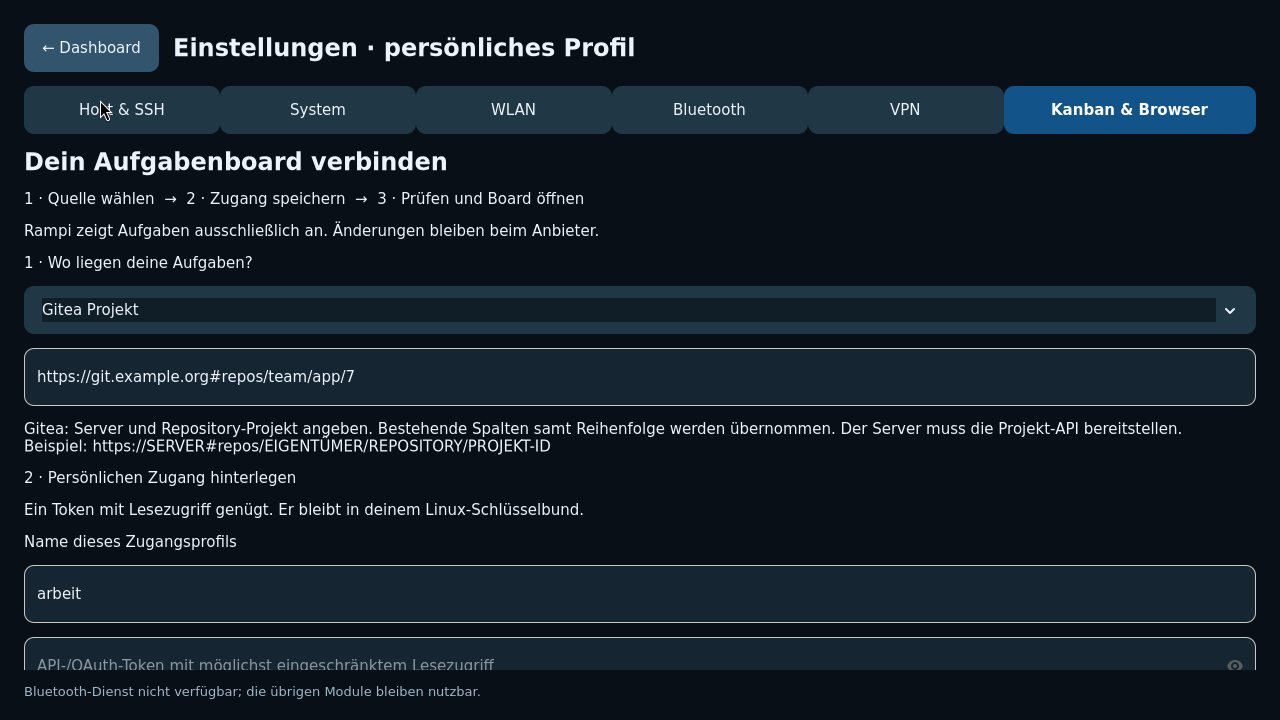
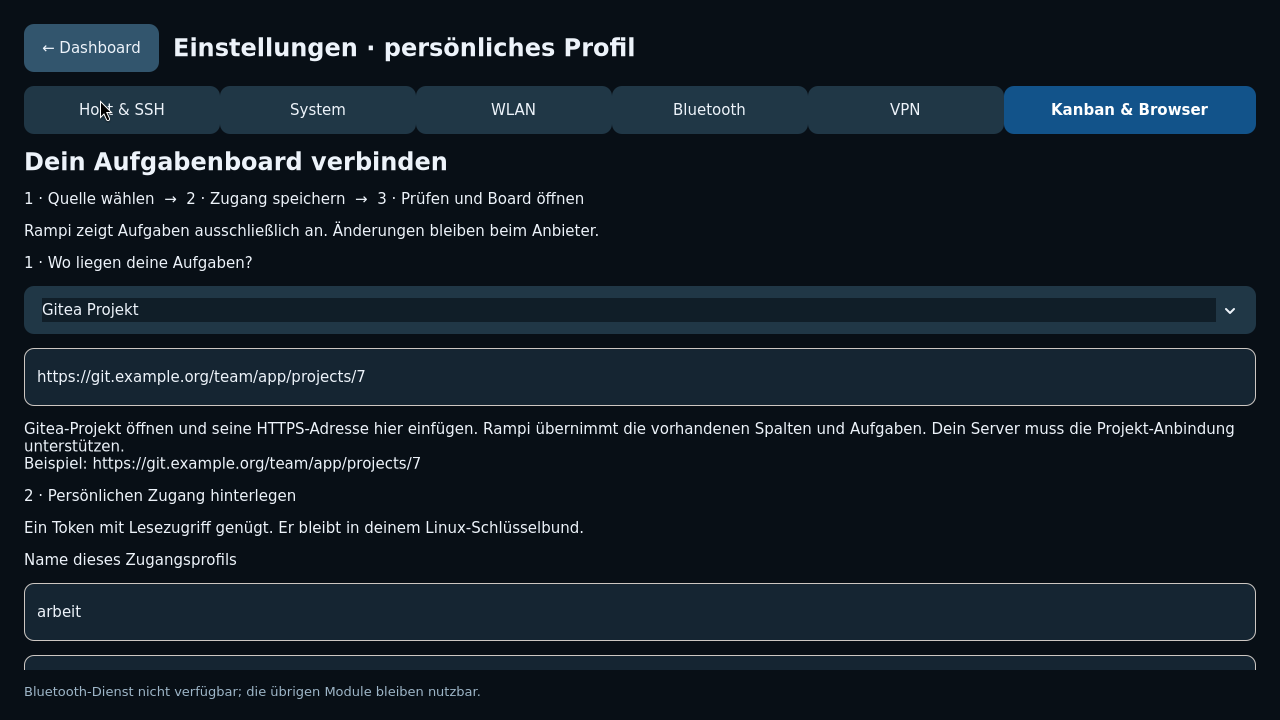
feat(kanban): accept copied Gitea project URLs

Changed region(s): [[0.0, 0.5806, 1.0, 0.9472], [0.1562, 0.5194, 0.2812, 0.55]]

diff --git a/native/core/src/gitea.rs b/native/core/src/gitea.rs
@@ -21,9 +21,23 @@ fn segment(s: &str) -> bool {
 }
 impl Project {
     pub fn new(source: &str) -> Result<Self> {
-        let (site, path) = source
-            .split_once('#')
-            .context("Gitea: https://SERVER#repos/EIGENTÜMER/REPOSITORY/PROJEKT-ID")?;
+        let expanded;
+        let (site, path) = if let Some(parts) = source.split_once('#') {
+            parts
+        } else {
+            let (repository, id) = source
+                .trim_end_matches('/')
+                .rsplit_once("/projects/")
+                .context("Die HTTPS-Adresse des Gitea-Repository-Projekts einfügen")?;
+            let (owner_path, repo) = repository
+                .rsplit_once('/')
+                .context("Gitea-Repository fehlt")?;
+            let (site, owner) = owner_path
+                .rsplit_once('/')
+                .context("Gitea-Eigentümer fehlt")?;
+            expanded = format!("repos/{owner}/{repo}/{id}");
+            (site, expanded.as_str())
+        };
         crate::config::validate_https(site)?;
         let site = site.trim_end_matches('/');
         let mut parts = site[8..].split('/');

diff --git a/native/core/src/connector_tests.rs b/native/core/src/connector_tests.rs
@@ -113,6 +113,23 @@ fn gitea_preserves_project_columns_and_server_page_limits() {
     ] {
         assert!(Connector::new("gitea", source, "fixture".into()).is_err());
     }
+    let copied = Connector::new(
+        "gitea",
+        "https://gitea.test:8443/git/owner/repo/projects/7/",
+        "fixture".into(),
+    )
+    .unwrap();
+    assert_eq!(
+        copied.request().unwrap().url,
+        "https://gitea.test:8443/git/api/v1/repos/owner/repo/projects/7"
+    );
+    for source in [
+        "https://gitea.test/owner/repo/projects/7?other=1",
+        "https://user@gitea.test/owner/repo/projects/7",
+        "https://gitea.test/../owner/repo/projects/7",
+    ] {
+        assert!(Connector::new("gitea", source, "fixture".into()).is_err());
+    }
     let mut c = Connector::new(
         "gitea",
         "https://gitea.test:8443/git#repos/owner/repo/7",

diff --git a/native/ui/src/board_settings.rs b/native/ui/src/board_settings.rs
@@ -152,8 +152,8 @@ pub fn build(stack: &gtk::Stack, conf: &Shared, _status: &gtk::Label, f: &Feedba
                     "Data-Source-ID",
                 ),
                 6 => (
-                    "Gitea: Server und Repository-Projekt angeben. Bestehende Spalten samt Reihenfolge werden übernommen. Der Server muss die Projekt-API bereitstellen.",
-                    "https://SERVER#repos/EIGENTÜMER/REPOSITORY/PROJEKT-ID",
+                    "Gitea-Projekt öffnen und seine HTTPS-Adresse hier einfügen. Rampi übernimmt die vorhandenen Spalten und Aufgaben. Dein Server muss die Projekt-Anbindung unterstützen.",
+                    "https://git.example.org/team/app/projects/7",
                 ),
                 _ => (
                     "Lokale JSON-Datei: Pfad angeben. Dafür werden keine Zugangsdaten benötigt.",

diff --git a/native/ui/src/kanban_checks.rs b/native/ui/src/kanban_checks.rs
@@ -363,7 +363,7 @@ pub fn ui(
             for (id, value) in [
                 (
                     "board-source",
-                    "https://gitea.fixture.test#repos/fixture/repo/1",
+                    "https://gitea.fixture.test/fixture/repo/projects/1",
                 ),
                 ("board-token-profile", "native-ui-gitea"),
             ] {

diff --git a/docs/KANBAN-NATIVE.de.md b/docs/KANBAN-NATIVE.de.md
@@ -19,7 +19,7 @@ Schritte und bleibt dabei im Rampi-Fenster. Aufgaben werden ausschließlich gele
 |---|---|---|
 | Lokale Datei | `~/aufgaben.json` | Kein Token; normalisiertes Board-JSON |
 | GitHub Projects | `organization/NAME/NUMMER` oder `user/NAME/NUMMER` | Token mit Zugriff auf das Projekt und dessen Inhalte; Status/Priorität aus Projektfeldern |
-| Gitea | `https://SERVER#repos/EIGENTÜMER/REPOSITORY/PROJEKT-ID` | Token mit Lesezugriff auf das Repository-Projekt; vorhandene Projektspalten und deren Reihenfolge, einschließlich leerer Spalten |
+| Gitea | `https://SERVER/EIGENTÜMER/REPOSITORY/projects/ID` | Token mit Lesezugriff auf das Repository-Projekt; vorhandene Projektspalten und deren Reihenfolge, einschließlich leerer Spalten |
 | Trello | Board-ID | API-Key und Token; offene Listen und Karten |
 | Jira Cloud | `https://SITE.atlassian.net#PROJEKT` | E-Mail und API-Token mit Issue-Lesezugriff |
 | Jira OAuth | `https://api.atlassian.com/ex/jira/CLOUD-UUID#PROJEKT` | OAuth-Token mit Issue-Lesezugriff; E-Mail leer lassen |
@@ -27,7 +27,10 @@ Schritte und bleibt dabei im Rampi-Fenster. Aufgaben werden ausschließlich gele
 | Notion | Data-Source-ID | Data Source für die Integration freigeben; Titel- und Status-Eigenschaft |
 
 Gitea unterstützt HTTPS-Server mit optionalem Port und Installationspräfix,
-beispielsweise `https://git.example.org:8443/gitea#repos/team/app/7`.
+beispielsweise `https://git.example.org:8443/gitea/team/app/projects/7`.
+Du kannst die Adresse des geöffneten Repository-Projekts direkt kopieren.
+Das bisherige Format `https://SERVER#repos/EIGENTÜMER/REPOSITORY/ID` bleibt
+kompatibel; beim Wechsel des Quellenformats den Zugang erneut zuordnen.
 Die Repository-Projekt-API muss auf der Instanz verfügbar sein; ältere Server
 ohne diese Endpunkte liefern einen erklärten Fehler. Organisations- und
 persönliche Gitea-Projekte sind in dieser ersten Anbindung nicht unterstützt.
